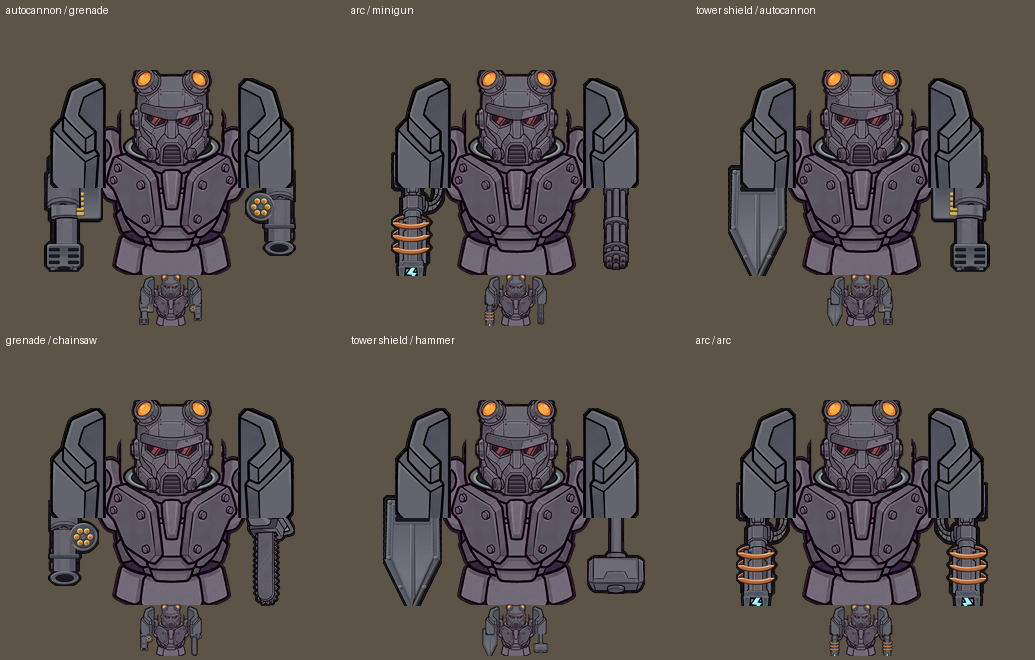
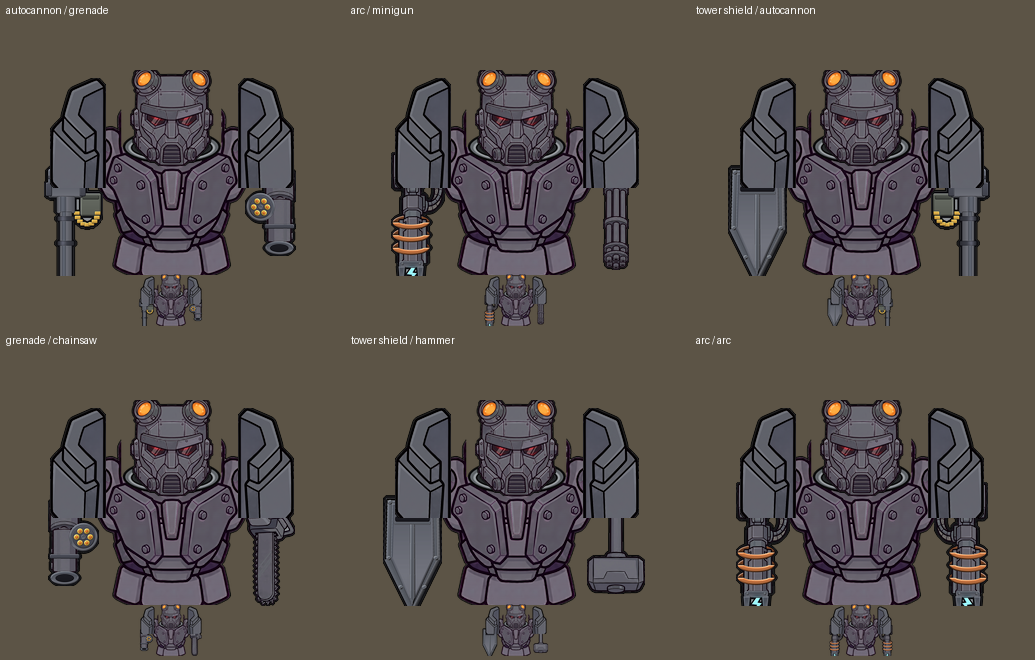
Bulwark autocannon: long barrel, muzzle brake, U-belt from an ammo can (vanilla heavy-gun proportions)
Claude-Session: https://claude.ai/code/session_01GM4XsNt8FF8EEgy8oUJDKj

diff --git a/Source/Art/kitbash.py b/Source/Art/kitbash.py
@@ -63,27 +63,35 @@ def half_ell(c,box,lower=True):
     yy=np.arange(c.n)[:,None]
     return m&((yy>=cy) if lower else (yy<cy))
 
-# ---- autocannon: fat barrel, real slotted muzzle brake, belt-fed ammo box
+# ---- autocannon (after the vanilla turret / warcasket heavy guns): compact receiver, long barrel, brake, U-belt
+from vdraw import fill_cyl
 b=Board()
-def ammo(c):
-    c.fill(c.rrect((X+170,330,X+470,900),30),STEEL,bevel=30)
-    c.fill(c.rrect((X+200,380,X+440,460),14),DK,bevel=10)             # lid
-    for k in range(5):                                               # belt of brass rounds into the gun
-        yy=560+k*62
-        c.fill(c.rrect((X+120,yy,X+260,yy+50),18),BRASS,bevel=14)
-        c.fill(c.rrect((X+100,yy+6,X+140,yy+44),10),(150,110,40),bevel=8)
-b.vd(ammo)
-y=b.put(P('minigun',(830,100,1240,720),(470,700)),X,60)
-y=b.put(P('hammer',(900,440,1100,1310),(330,820)),X,y-40)
-def brake(c):
-    t=y-330
-    c.fill(c.rrect((X-210,t,X+210,t+300),36),STEEL,bevel=34)
-    for k in range(3):
-        yy=t+50+k*80
-        for sx in (-1,1): c.fill(c.rrect((X+sx*120-70,yy,X+sx*120+70,yy+44),16),BLK,bevel=8,spec=False)
-    c.fill(c.rrect((X-120,t+270,X+120,t+330),20),DK,bevel=14)
-    c.fill(c.ell((X-80,t+280,X+80,t+330)),BLK,bevel=6,spec=False)
-b.vd(brake); b.save(W('autocannon'))
+b.put(MOUNT((300,240)),X,30)
+def ac(c):
+    # ammo box low on the outer side + U-shaped brass belt looping up into the receiver
+    c.fill(c.rrect((X+190,560,X+460,860),28),(96,100,92),bevel=26)            # olive ammo can
+    c.fill(c.rrect((X+220,590,X+430,640),12),(70,74,68),bevel=8)
+    for k in range(9):
+        ang=np.pi*(k/8)                                                       # U loop from the can to the receiver
+        bx=X+280-150*np.cos(ang)*0.9; by=860+150*np.sin(ang)-40
+        c.fill(c.rrect((bx-40,by-26,bx+40,by+26),12),BRASS,bevel=12)
+    # receiver
+    c.fill(c.rrect((X-230,240,X+230,620),34),STEEL,bevel=34)
+    c.fill(c.rrect((X-230,330,X+230,380),10),DK,bevel=8)                      # top-cover seam
+    c.fill(c.rrect((X-260,420,X-180,600),18),DK,bevel=12)                     # side plate
+    c.fill(c.rrect((X+180,420,X+260,600),18),DK,bevel=12)
+    for bx in (X-150,X+150): c.bolt(bx,290,18)
+    # long barrel with a recoil sleeve and reinforcing rings
+    fill_cyl(c,c.rrect((X-120,600,X+120,820),20),STEEL)                       # recoil sleeve
+    fill_cyl(c,c.rrect((X-80,800,X+80,1720),14),STEEL)                        # barrel
+    for yy in (860,1180):
+        fill_cyl(c,c.rrect((X-110,yy,X+110,yy+60),14),DK)
+    # muzzle brake: stepped block with side baffles, dark bore at the tip
+    fill_cyl(c,c.rrect((X-150,1680,X+150,1900),26),STEEL)
+    for yy in (1715,1790):
+        for x0,x1 in ((X-215,X-140),(X+140,X+215)): c.fill(c.rrect((x0,yy,x1,yy+50),12),DK,bevel=10)
+    c.fill(c.ell((X-95,1850,X+95,1950)),(26,26,32),bevel=10,spec=False)
+b.vd(ac); b.save(W('autocannon'))
 
 # ---- grenade launcher: drum magazine on the side showing six rounds, fat tube, sight
 b=Board()

diff --git a/Source/Art/vdraw.py b/Source/Art/vdraw.py
@@ -59,3 +59,16 @@ class Canvas:
         im=Image.fromarray(s.rgb.astype(np.uint8))
         bg=Image.new('RGB',im.size,'white'); bg.paste(im,mask=Image.fromarray((s.a*255).astype(np.uint8)))
         bg.save(path)
+
+def fill_cyl(c,mask,col,edge=4,hi=0.32):
+    "vertical cylinder shading: light stripe at `hi` across the width, darker towards both edges"
+    col=np.array(col,float); xs=np.nonzero(mask.any(0))[0]
+    if not len(xs): return
+    x0,x1=xs.min(),xs.max(); t=(np.arange(c.n)-x0)/max(1,x1-x0)
+    f=0.62+0.55*np.exp(-((t-hi)/0.16)**2)+0.25*np.clip(1-np.abs(t-0.5)*2,0,1)
+    f=np.clip(f,0,1.5)[None,:]*np.ones((c.n,1))
+    cc=np.clip(col[None,None,:]*f[...,None],0,255)
+    c.rgb[mask]=cc[mask]
+    ring=mask&~ndimage.binary_erosion(mask,iterations=edge)
+    c.rgb[ring]=c.rgb[ring]*0.25+INK*0.75
+    c.a|=mask

diff --git a/Source/Art/bulwark_new_arms.py b/Source/Art/bulwark_new_arms.py
@@ -6,7 +6,7 @@ _arm=arm
 def arm(name,side):
     w=clip_behind(place(f'{SP}/weap/{name}.png',PCX-OUT-OUTX.get(name,0),58+int(os.environ.get('TOP','80')),H[name],side),ringw)
     return [w,plate(side)]
-H.update({'autocannon':120,'grenade':104,'arc':134,'towershield':136})
+H.update({'autocannon':150,'grenade':104,'arc':134,'towershield':136})
 loadouts=[('autocannon / grenade','autocannon','grenade'),('arc / minigun','arc','minigun'),('tower shield / autocannon','towershield','autocannon'),('grenade / chainsaw','grenade','chainsaw'),('tower shield / hammer','towershield','hammer'),('arc / arc','arc','arc')]
 img=Image.new('RGBA',(3*345,2*330),floor); d=ImageDraw.Draw(img)
 for i,(lab,a,b) in enumerate(loadouts):
